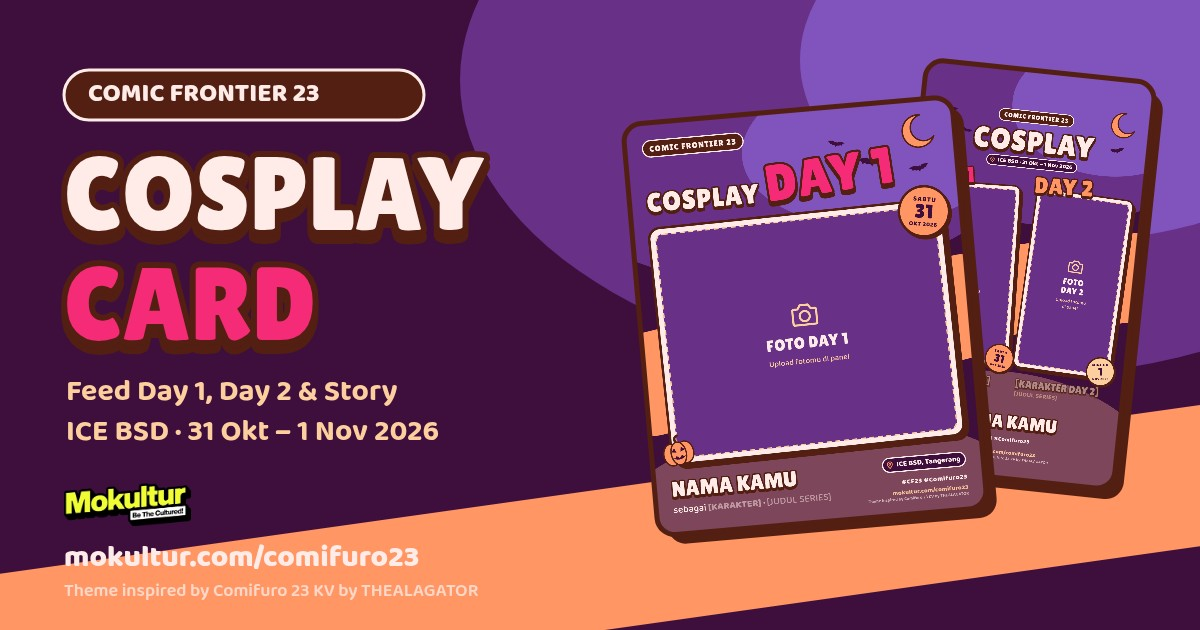
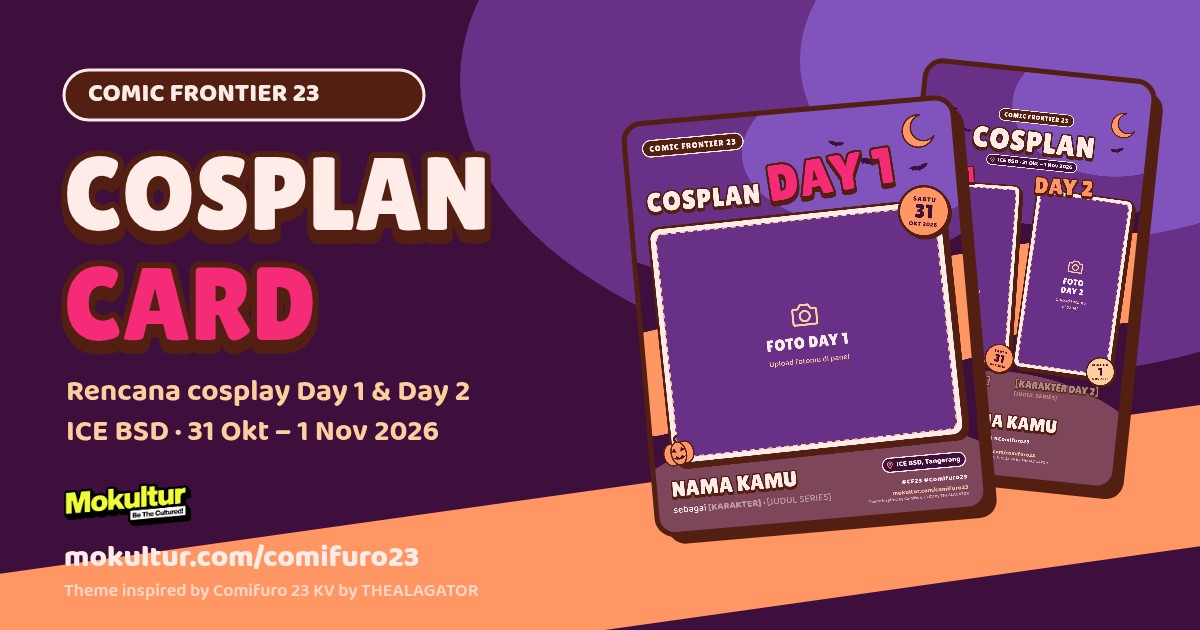
CF23: Cosplay Card becomes Cosplan Card
A cosplan is who you will cosplay on each day, posted before the event,
which is what a Day 1 / Day 2 card already is. The card artwork says
COSPLAN (Feed and Story), and the page, homepage card, share image,
file names and breadcrumb say Cosplan Card.

The caption reads as a plan: "Cosplan Comic Frontier 23" then one line
per day (or "Day 1 & 2" when both are the same), "Sampai ketemu di
CF23!", and #Cosplan in the hashtags. og:image is redrawn from the
engine and bumped to ?v=6 so scrapers fetch it again.

Claude-Session: https://claude.ai/code/session_01PrRgchUN9mrkP6kn4eVbRs

diff --git a/src/routes/comifuro23/+page.svelte b/src/routes/comifuro23/+page.svelte
@@ -7,7 +7,8 @@
   import { loadCf23Assets } from '$lib/cf23/assets';
 
   /**
-   * mokultur.com/comifuro23 — the CF23 cosplay card generator, ported from the
+   * mokultur.com/comifuro23 — the CF23 Cosplan Card generator (a cosplan is
+   * who you will cosplay on each day of the event), ported from the
    * supplied vanilla app.js. Everything happens in the browser: photos are read
    * with object URLs and drawn to a canvas, never uploaded.
    *
@@ -23,10 +24,10 @@
   let { data } = $props();
 
   const R = CF23Render;
-  const HASHTAGS = '#CF23 #Comifuro23 #Mokultur';
+  const HASHTAGS = '#CF23 #Comifuro23 #Cosplan #Mokultur';
   const ALL: TemplateId[] = ['day1', 'day2', 'story'];
-  const TITLE = 'Cosplay Card Comic Frontier 23 (CF23)';
-  const DESCRIPTION = 'Bikin Cosplay Card CF23 untuk feed dan story Instagram: upload foto Day 1 dan Day 2, isi nama dan karakter, lalu download PNG. Gratis, langsung di browser, foto tidak di-upload.';
+  const TITLE = 'Cosplan Card Comic Frontier 23 (CF23)';
+  const DESCRIPTION = 'Bikin Cosplan Card CF23: umumkan rencana cosplay Day 1 dan Day 2 di feed dan story Instagram. Upload foto, isi nama dan karakter, lalu download PNG. Gratis, langsung di browser, foto tidak di-upload.';
   /** `title`/`sub` are the two lines of the format switch; `label` is the full name used in messages. */
   const FORMATS: { id: TemplateId; label: string; title: string; sub: string }[] = [
     { id: 'day1', label: 'Feed Day 1', title: 'Day 1', sub: 'Feed · 4:5' },
@@ -77,7 +78,7 @@
     return { handle: link?.username ?? '@mokultur', url: link?.url ?? 'https://www.instagram.com/mokultur/' };
   });
 
-  /** A ready-to-paste caption from what the visitor typed. */
+  /** A ready-to-paste caption from what the visitor typed: the cosplan, one line per day. */
   const caption = $derived.by(() => {
     const who = (day: Day) => {
       const { character, series } = days[day];
@@ -85,14 +86,15 @@
       const t = series.trim();
       return c && t ? `${c} (${t})` : c || t;
     };
-    const looks = [who(1), who(2)].filter(Boolean);
-    const unique = [...new Set(looks)];
-    const opener = unique.length === 2
-      ? `Day 1 jadi ${unique[0]}, Day 2 jadi ${unique[1]} di Comic Frontier 23! ✨`
-      : unique.length === 1
-        ? `Cosplay ${unique[0]} di Comic Frontier 23! ✨`
-        : 'Cosplay di Comic Frontier 23! ✨';
-    return [opener, '', `📍 ICE BSD · 31 Okt – 1 Nov 2026`, `Bikin Cosplay Card-mu di mokultur.com/comifuro23`, '', `${instagram.handle} ${HASHTAGS}`].join('\n');
+    const [one, two] = [who(1), who(2)];
+    const plan = one && two && one === two
+      ? [`Day 1 & 2: ${one}`]
+      : [one && `Day 1: ${one}`, two && `Day 2: ${two}`].filter(Boolean);
+    return [
+      'Cosplan Comic Frontier 23 ✨', ...plan, '',
+      '📍 ICE BSD · 31 Okt – 1 Nov 2026', 'Sampai ketemu di CF23! Bikin Cosplan Card-mu di mokultur.com/comifuro23', '',
+      `${instagram.handle} ${HASHTAGS}`,
+    ].join('\n');
   });
   let copied = $state(false);
 
@@ -297,7 +299,7 @@
 
   function fileName(id: TemplateId): string {
     const slug = name.toLowerCase().replace(/^@+/, '').replace(/[^a-z0-9]+/g, '-').replace(/^-|-$/g, '');
-    return `cf23-cosplay-card-${id}${slug ? `-${slug}` : ''}.png`;
+    return `cf23-cosplan-card-${id}${slug ? `-${slug}` : ''}.png`;
   }
 
   async function makeFile(id: TemplateId = template): Promise<File> {
@@ -358,7 +360,7 @@
       const files: File[] = [];
       for (const id of ALL) {
         const blob = await R.toBlob(id, data, 'image/png', { blank: true });
-        files.push(new File([blob], `cf23-cosplay-card-template-${id}.png`, { type: 'image/png' }));
+        files.push(new File([blob], `cf23-cosplan-card-template-${id}.png`, { type: 'image/png' }));
       }
       for (const [index, file] of files.entries()) {
         if (index) await new Promise((resolve) => setTimeout(resolve, 450));
@@ -429,22 +431,22 @@
   <meta property="og:title" content={TITLE} />
   <meta property="og:description" content={DESCRIPTION} />
   <meta property="og:url" content={absoluteUrl('/comifuro23')} />
-  <meta property="og:image" content={absoluteUrl('/assets/og/comifuro23.jpg?v=5')} />
+  <meta property="og:image" content={absoluteUrl('/assets/og/comifuro23.jpg?v=6')} />
   <meta property="og:image:width" content="1200" />
   <meta property="og:image:height" content="630" />
   <meta name="twitter:card" content="summary_large_image" />
   <meta name="twitter:title" content={TITLE} />
   <meta name="twitter:description" content={DESCRIPTION} />
-  <meta name="twitter:image" content={absoluteUrl('/assets/og/comifuro23.jpg?v=5')} />
+  <meta name="twitter:image" content={absoluteUrl('/assets/og/comifuro23.jpg?v=6')} />
   <meta name="theme-color" content="#3E0F3D" />
-  {@html `<script type="application/ld+json">${JSON.stringify(buildBreadcrumb([{ name: 'Cosplay Card CF23', path: '/comifuro23' }]))}<\/script>`}
+  {@html `<script type="application/ld+json">${JSON.stringify(buildBreadcrumb([{ name: 'Cosplan Card CF23', path: '/comifuro23' }]))}<\/script>`}
 </svelte:head>
 
 <div class="cf23">
   <header class="cf23-head container-xl">
-    <h1>Cosplay Card CF23</h1>
+    <h1>Cosplan Card CF23</h1>
     <p class="cf23-meta"><i class="bi bi-geo-alt-fill" aria-hidden="true"></i>Comic Frontier 23 · ICE BSD · 31 Okt – 1 Nov 2026</p>
-    <p class="cf23-lead">Upload foto cosplay-mu, isi nama dan karakter, lalu simpan untuk feed atau story. Fotonya tetap di HP-mu, tidak dikirim ke mana pun.</p>
+    <p class="cf23-lead">Umumkan cosplan-mu: mau jadi siapa di Day 1 dan Day 2. Upload foto cosplay atau costest-mu, isi nama dan karakter, lalu simpan untuk feed atau story. Fotonya tetap di HP-mu, tidak dikirim ke mana pun.</p>
   </header>
 
   <div class="cf23-layout container-xl">
@@ -556,11 +558,11 @@
     </form>
 
     <section class="cf23-post" aria-labelledby="cf23-post-title">
-      <h2 id="cf23-post-title">Posting <span class="cf23-nowrap">Cosplay Card-mu!</span></h2>
-      <p class="cf23-post__lead">Pamerin cosplay-mu di Instagram dan tag <a href={instagram.url} target="_blank" rel="noopener noreferrer">{instagram.handle}</a> biar kami bisa lihat. Pakai <strong>#CF23 #Comifuro23</strong> ya!</p>
+      <h2 id="cf23-post-title">Posting <span class="cf23-nowrap">Cosplan Card-mu!</span></h2>
+      <p class="cf23-post__lead">Umumkan cosplan-mu di Instagram sebelum hari-H dan tag <a href={instagram.url} target="_blank" rel="noopener noreferrer">{instagram.handle}</a> biar kami bisa lihat. Pakai <strong>#CF23 #Comifuro23</strong> ya!</p>
 
       <ol class="cf23-post__steps">
-        <li><span>1</span>Simpan Cosplay Card: semua format yang siap tersimpan sekaligus.</li>
+        <li><span>1</span>Simpan Cosplan Card: semua format yang siap tersimpan sekaligus.</li>
         <li><span>2</span>Posting Feed Day 1 / Day 2, dan Story Day 1 + 2 di Instagram.</li>
         <li><span>3</span>Tempel caption di bawah, lalu tag {instagram.handle}.</li>
       </ol>
@@ -592,7 +594,7 @@
     </section>
   </div>
 
-  <div class="cf23-actions" role="region" aria-label="Simpan Cosplay Card">
+  <div class="cf23-actions" role="region" aria-label="Simpan Cosplan Card">
     <div class="cf23-actions__inner container-xl">
       <p class="cf23-status" class:is-error={statusError} role="status" aria-live="polite">{status}</p>
       <div class="cf23-actions__buttons">

diff --git a/src/lib/cf23/render.js b/src/lib/cf23/render.js
@@ -1,6 +1,6 @@
 // @ts-nocheck -- vendored render engine, typed by render.d.ts
 /*!
- * CF23 Cosplay Card — render engine
+ * CF23 Cosplan Card — render engine
  * Menggambar template Feed Day 1, Feed Day 2, dan Story Day 1 + 2 ke <canvas>.
  *
  * Ported from the supplied cf23-generator (UMD) to an ES module for
@@ -452,7 +452,7 @@ const CF23Render = (function () {
     });
 
     var base = 292;
-    var cw = outlined(ctx, 'COSPLAY', P, base, { size: 88, fill: c.cream, strokeWidth: 10, shadow: 7, letterSpacing: 2 });
+    var cw = outlined(ctx, 'COSPLAN', P, base, { size: 88, fill: c.cream, strokeWidth: 10, shadow: 7, letterSpacing: 2 });
     ctx.save();
     ctx.translate(P + cw + 28, base);
     ctx.rotate(-4 * DEG);
@@ -522,7 +522,7 @@ const CF23Render = (function () {
       x: 540, y: 190, anchor: 'center', height: 60, padL: 26, padR: 26, text: EVENT.name,
       family: DISPLAY, size: 30, letterSpacing: 2, bg: c.brown, border: c.cream, borderWidth: 4, color: c.cream, nudge: 1
     });
-    outlined(ctx, 'COSPLAY', 540, 382, { size: 136, fill: c.cream, strokeWidth: 14, shadow: 10, letterSpacing: 3, align: 'center' });
+    outlined(ctx, 'COSPLAN', 540, 382, { size: 136, fill: c.cream, strokeWidth: 14, shadow: 10, letterSpacing: 3, align: 'center' });
     pill(ctx, {
       x: 540, y: 410, anchor: 'center', height: 52, padL: 14, padR: 22, text: EVENT.dateRange,
       weight: '800', size: 28, bg: c.plum, border: c.cream, borderWidth: 4, color: c.cream,
@@ -609,7 +609,7 @@ const CF23Render = (function () {
   function loadFonts() {
     if (typeof document === 'undefined' || !document.fonts || !document.fonts.load) return Promise.resolve();
     return Promise.all([
-      document.fonts.load('400 100px "Lilita One"', 'COSPLAY'),
+      document.fonts.load('400 100px "Lilita One"', 'COSPLAN'),
       document.fonts.load('500 30px "Baloo 2"', 'Aa'),
       document.fonts.load('700 30px "Baloo 2"', 'Aa'),
       document.fonts.load('800 30px "Baloo 2"', 'Aa')

diff --git a/src/components/home/Cf23PromoCard.svelte b/src/components/home/Cf23PromoCard.svelte
@@ -3,7 +3,7 @@
   import { CF23_PROMO_UNTIL } from '$lib/cf23/assets';
 
   /**
-   * Homepage card for the CF23 cosplay card generator. Typing a name redraws a
+   * Homepage card for the CF23 Cosplan Card generator. Typing a name redraws a
    * live miniature of the card (the real render engine, loaded only once the
    * card is near the screen); the form is a plain GET to /comifuro23, so it
    * works before any script has run. It retires itself a week after the event.
@@ -62,8 +62,8 @@
   <section class="cf23-promo" aria-labelledby="cf23-promo-title" bind:this={host} onpointermove={onTilt} onpointerleave={() => { tiltX = 0; tiltY = 0; }}>
     <div class="cf23-promo__copy">
       <span class="cf23-promo__event">CF23 · 31 Okt – 1 Nov</span>
-      <h2 id="cf23-promo-title">Bikin Cosplay Card CF23</h2>
-      <p>Foto Day 1 &amp; Day 2 jadi Cosplay Card siap posting untuk feed dan story. Tag @mokultur!</p>
+      <h2 id="cf23-promo-title">Bikin Cosplan Card CF23</h2>
+      <p>Umumkan cosplan Day 1 &amp; 2 kamu, siap posting di feed dan story. Tag @mokultur!</p>
     </div>
 
     <div class="cf23-promo__preview" style:transform={`perspective(600px) rotateX(${tiltX}deg) rotateY(${tiltY}deg) rotate(3deg)`}>
